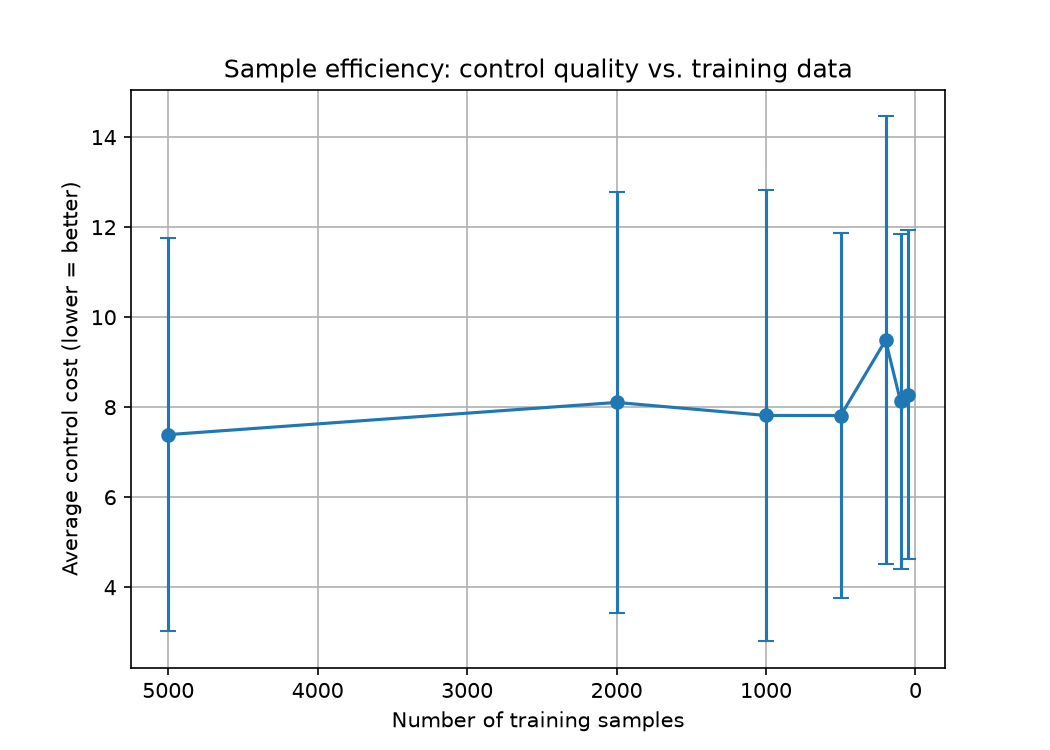
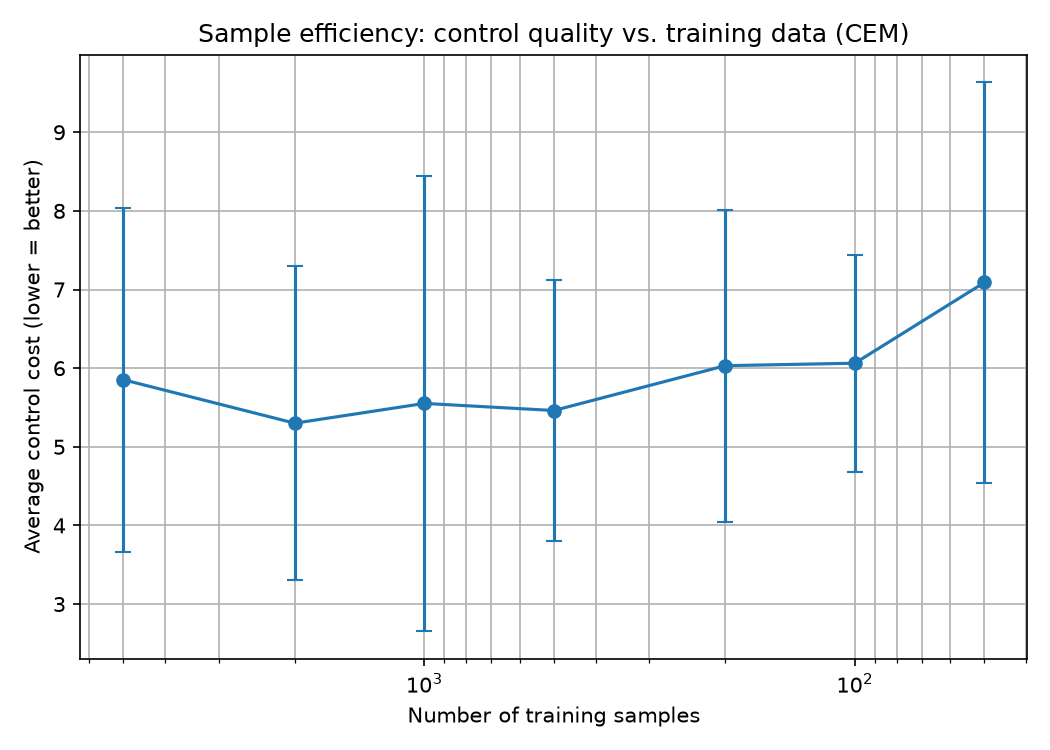
Replace random-shooting planner with CEM and strengthen result reporting
- CEM planner: horizon 20, 5 iterations x 100 candidates, top-10 elites
- Keep random shooting as choose_action_random_shooting baseline
- All-pairs significance check and weighted trend test
- Log x-axis on control plot; --replot regenerates from saved JSON

diff --git a/sample_effeciency.py b/sample_effeciency.py
@@ -1,4 +1,5 @@
 import json
+import math
 import time
 
 import gymnasium as gym
@@ -251,7 +252,73 @@ def run_prediction_experiment():
     return means, stds
 
 
-# ---------- 6. RUN the control experiment ----------
+# ---------- 6. REPORTING ----------
+def plot_control_results(sizes, means, stds, planner_name="cem",
+                         path="sample_efficiency.png"):
+    plt.figure(figsize=(7, 5))
+    plt.errorbar(sizes, means, yerr=stds, marker="o", capsize=4)
+    plt.xlabel("Number of training samples")
+    plt.ylabel("Average control cost (lower = better)")
+    plt.title(f"Sample efficiency: control quality vs. training data ({planner_name.upper()})")
+    # Log x: the sizes are log-spaced, so a linear axis crowds 50-500 together.
+    plt.xscale("log")
+    plt.gca().invert_xaxis()
+    plt.grid(True, which="both")
+    plt.tight_layout()
+    plt.savefig(path, dpi=150)
+    print(f"Saved graph to {path}")
+
+
+def report_control_results(sizes, means, stds, sems):
+    """Table, all-pairs significance, and a weighted trend test.
+
+    Adjacent-pair comparison alone is misleading here: a gradual degradation
+    can leave every neighbouring step inside the noise while distant sizes
+    separate cleanly, so all pairs are checked.
+    """
+    print(f"\nResults  ({N_SEEDS} models x {N_EVAL} rollouts = "
+          f"{N_SEEDS * N_EVAL} runs per sample size)")
+    print(f"{'samples':>8} {'mean':>9} {'std':>9} {'sem':>8}   {'95% CI':>18}")
+    print("-" * 58)
+    for n, m, sd, se in zip(sizes, means, stds, sems):
+        print(f"{n:>8} {m:>9.3f} {sd:>9.3f} {se:>8.3f}   "
+              f"[{m - 1.96 * se:>7.3f}, {m + 1.96 * se:>7.3f}]")
+    print("-" * 58)
+
+    print("\nAll pairwise comparisons (non-overlapping 95% CI = real):")
+    n_pairs, n_real = 0, 0
+    for i in range(len(sizes)):
+        for j in range(i + 1, len(sizes)):
+            n_pairs += 1
+            lo_a, hi_a = means[i] - 1.96 * sems[i], means[i] + 1.96 * sems[i]
+            lo_b, hi_b = means[j] - 1.96 * sems[j], means[j] + 1.96 * sems[j]
+            if hi_a < lo_b or hi_b < lo_a:
+                n_real += 1
+                print(f"  REAL: {sizes[i]:>5} ({means[i]:.3f}) vs "
+                      f"{sizes[j]:>5} ({means[j]:.3f})")
+    if n_real == 0:
+        print("  (none — every pair overlaps)")
+    print(f"  -> {n_real} of {n_pairs} pairs separate")
+
+    # Weighted least squares of cost on log10(samples); slope < 0 means more
+    # data really does buy better control.
+    x = np.log10(np.asarray(sizes, dtype=float))
+    y = np.asarray(means, dtype=float)
+    w = 1.0 / np.asarray(sems, dtype=float) ** 2
+    X = np.vstack([np.ones_like(x), x]).T
+    XtW = X.T * w
+    beta = np.linalg.solve(XtW @ X, XtW @ y)
+    slope_se = np.sqrt(np.linalg.inv(XtW @ X)[1, 1])
+    z = beta[1] / slope_se
+    p = math.erfc(abs(z) / math.sqrt(2.0))
+    print(f"\nTrend: cost changes {beta[1]:+.3f} +/- {slope_se:.3f} per 10x more "
+          f"data (z={z:.2f}, p={p:.4f})")
+    print("  " + ("significant downward trend: more data -> better control"
+                  if beta[1] < 0 and p < 0.05 else
+                  "no significant trend"))
+
+
+# ---------- 7. RUN the control experiment ----------
 def main(planner_name="cem"):
     t_start = time.time()
     print(f"Control experiment using planner: {planner_name}")
@@ -288,42 +355,10 @@ def main(planner_name="cem"):
         print(f"{n:>5} samples -> avg control cost = {combined_mean:.3f} +/- {combined_std:.3f}\n")
 
     # ---------- 6. PLOT the result ----------
-    plt.figure(figsize=(7, 5))
-    plt.errorbar(SAMPLE_SIZES, means, yerr=stds, marker="o", capsize=4)
-    plt.xlabel("Number of training samples")
-    plt.ylabel("Average control cost (lower = better)")
-    plt.title("Sample efficiency: control quality vs. training data")
-    plt.gca().invert_xaxis()
-    plt.grid(True)
-    plt.savefig("sample_efficiency.png", dpi=150)
-    print("Saved graph to sample_efficiency.png")
+    plot_control_results(SAMPLE_SIZES, means, stds, planner_name)
 
     # ---------- 7. RESULTS TABLE ----------
-    total_runs = N_SEEDS * N_EVAL
-    print(
-        f"\nResults  ({N_SEEDS} models x {N_EVAL} rollouts = {total_runs} runs per sample size)"
-    )
-    print(f"{'samples':>8} {'mean':>9} {'std':>9} {'sem':>8}   {'95% CI':>18}")
-    print("-" * 58)
-    for n, m, sd, se in zip(SAMPLE_SIZES, means, stds, sems):
-        lo, hi = m - 1.96 * se, m + 1.96 * se
-        print(f"{n:>8} {m:>9.3f} {sd:>9.3f} {se:>8.3f}   [{lo:>7.3f}, {hi:>7.3f}]")
-    print("-" * 58)
-    print("Error bars on the plot are std. Use the 95% CI column to judge")
-    print("significance: overlapping intervals mean the difference is noise.")
-
-    # Which neighbouring sample sizes actually separate?
-    print("\nPairwise check (adjacent sizes, non-overlapping 95% CI = real):")
-    for i in range(len(SAMPLE_SIZES) - 1):
-        a, b = i, i + 1
-        lo_a, hi_a = means[a] - 1.96 * sems[a], means[a] + 1.96 * sems[a]
-        lo_b, hi_b = means[b] - 1.96 * sems[b], means[b] + 1.96 * sems[b]
-        real = hi_a < lo_b or hi_b < lo_a
-        verdict = "REAL " if real else "noise"
-        print(
-            f"  {SAMPLE_SIZES[a]:>5} vs {SAMPLE_SIZES[b]:>5}: "
-            f"{means[a]:.3f} vs {means[b]:.3f}  -> {verdict}"
-        )
+    report_control_results(SAMPLE_SIZES, means, stds, sems)
 
     # Persist so runs with different planners stay comparable.
     with open(f"results_{planner_name}.json", "w") as f:
@@ -356,7 +391,16 @@ if __name__ == "__main__":
         default="both",
         help="control = MPC control cost; prediction = held-out one-step MSE",
     )
+    parser.add_argument("--replot", action="store_true",
+                        help="redraw plot/table from a saved results JSON")
+    parser.add_argument("--planner", default="cem", help="label for --replot")
     args = parser.parse_args()
+
+    if args.replot:
+        d = json.load(open(f"results_{args.planner}.json"))
+        plot_control_results(d["sample_sizes"], d["means"], d["stds"], d["planner"])
+        report_control_results(d["sample_sizes"], d["means"], d["stds"], d["sems"])
+        raise SystemExit(0)
 
     if args.experiment in ("prediction", "both"):
         run_prediction_experiment()
